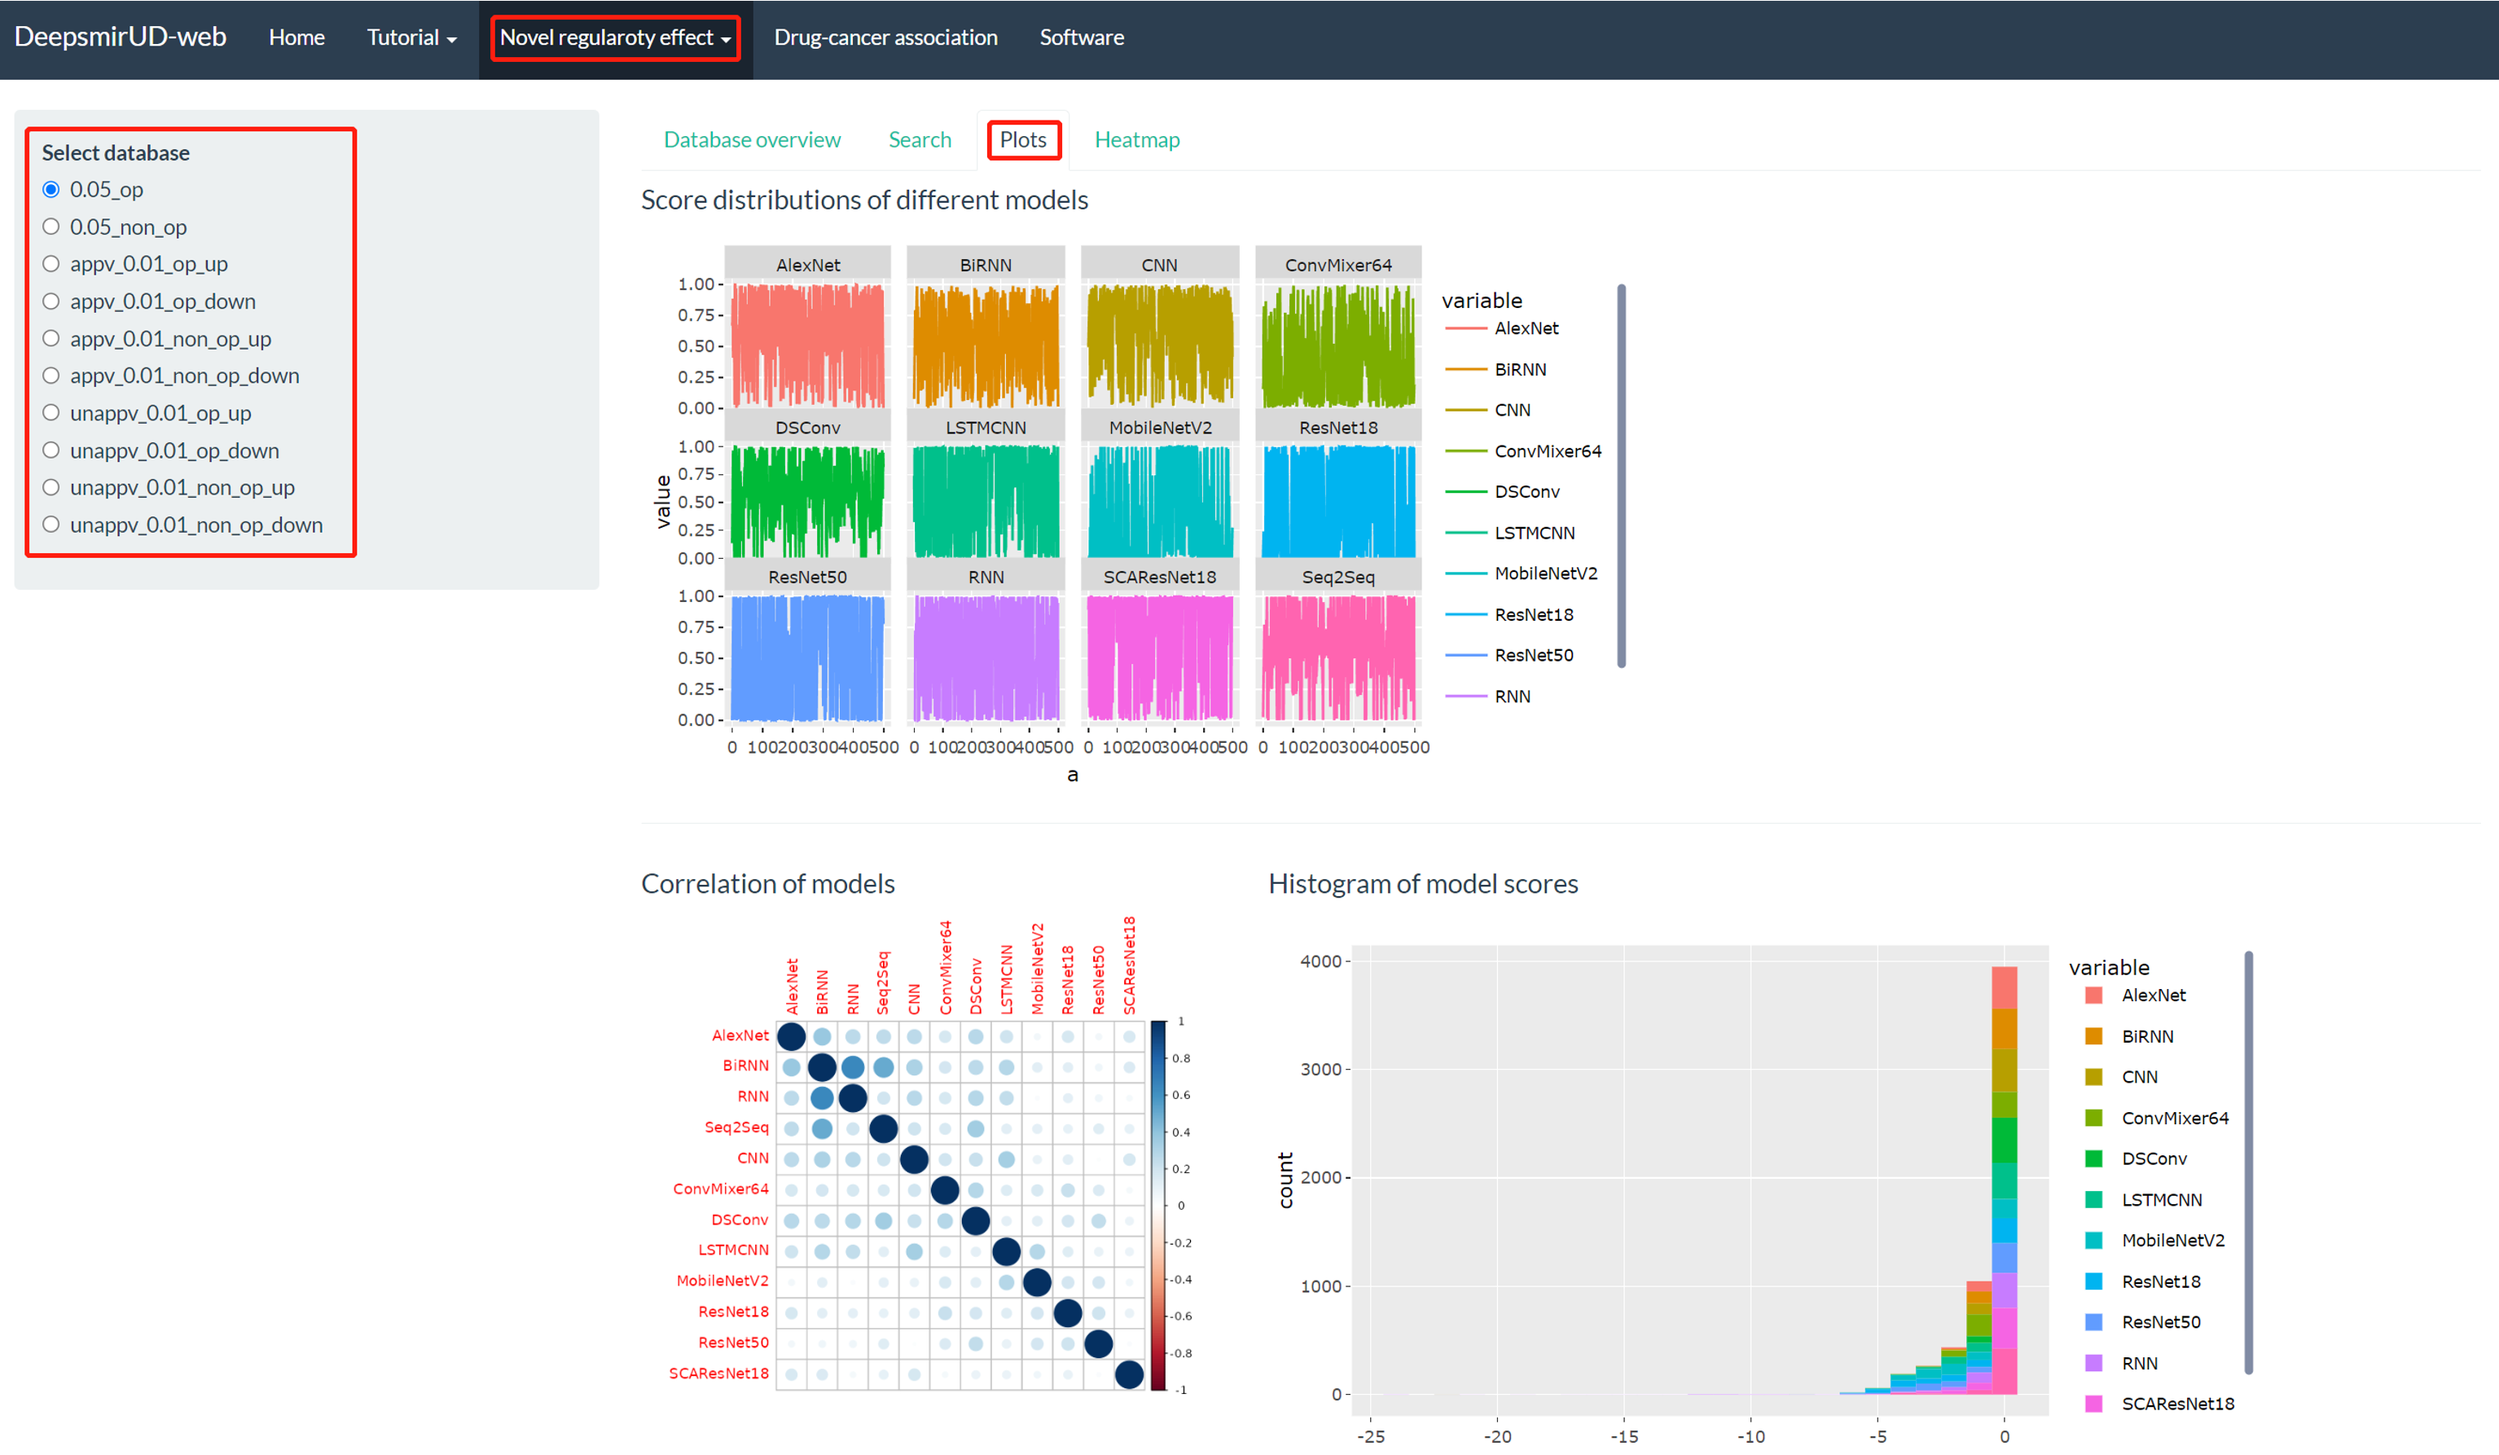
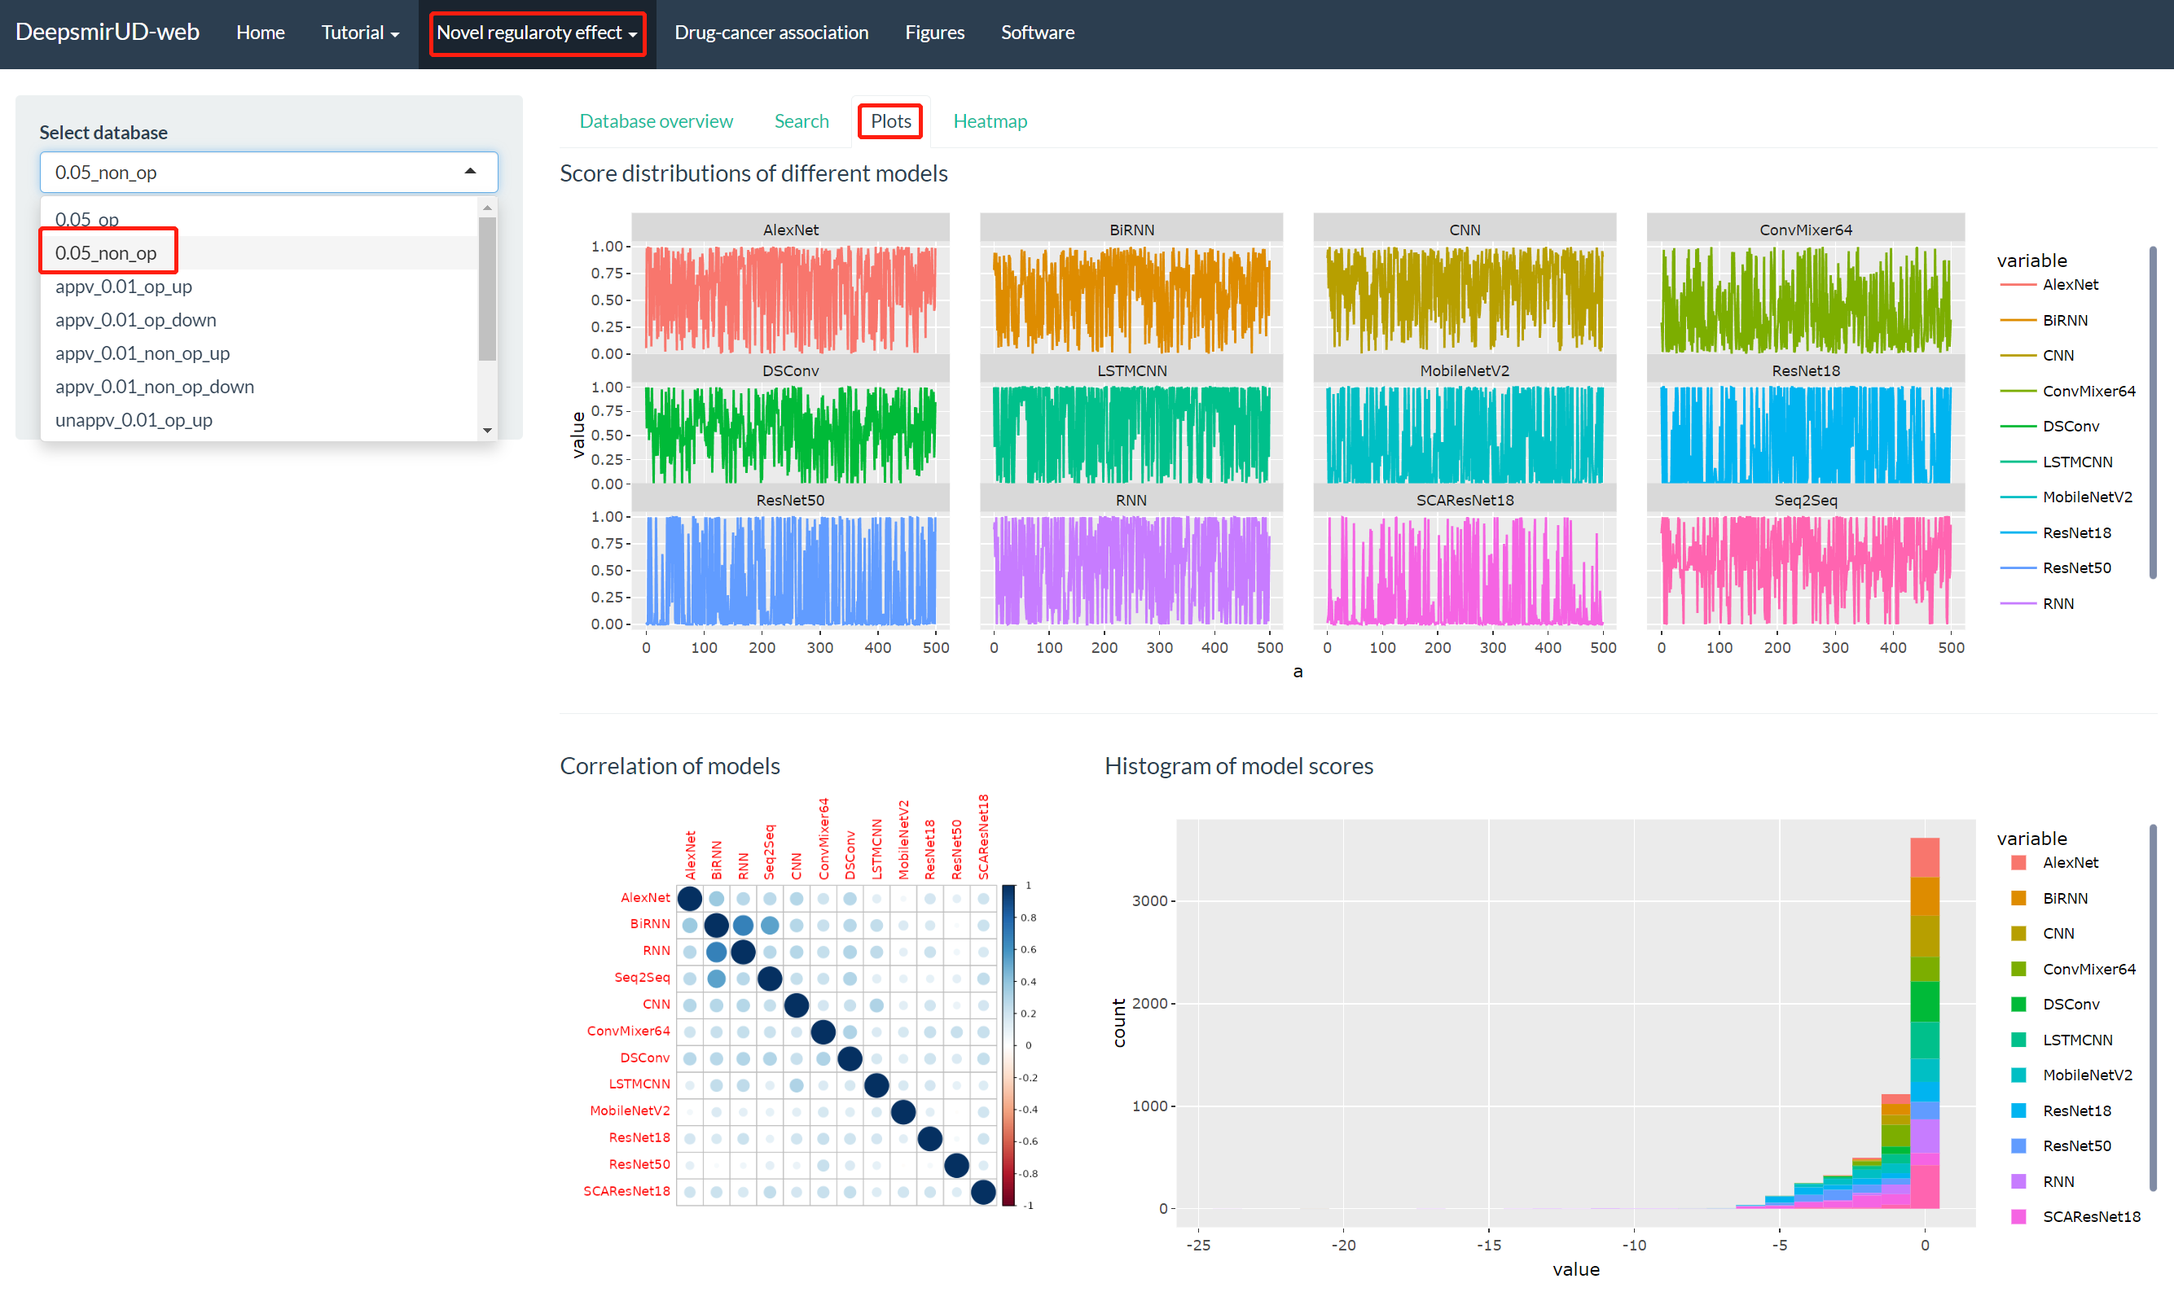
update tutorial

diff --git a/app/www/tutorial1.md b/app/www/tutorial1.md
@@ -17,8 +17,9 @@ unappv_0.01_op_down, unappv_0.01_non_op_up, and unappv_0.01_non_op_down.
 appv is for FDA-approved. unappv is for FDA-unapproved. op is for
 overlapped, representing a miRNA or a small molecule in these small
 molecule-miRNA pairs are overlapped with miRNAs or small molecules in
-the DeepsmirUD training dataset. After the ‘0.05_non_op’ database is
-selected, tables and plots are loaded as in **Figure 1**.
+the DeepsmirUD training dataset. The loading page of the Psmir databases
+is shown in **Figure 1**. After the ‘0.05_non_op’ database is selected,
+tables and plots are loaded as in **Figures 2-4**.
 
 <center>
 
@@ -29,7 +30,6 @@ alt="Figure 1. Databases of predicted regulatory effects of the Psmir pairs" />
 regulatory effects of the Psmir pairs</figcaption>
 </figure>
 
-</center>
 </center>
 
 </br>
@@ -45,7 +45,12 @@ data</figcaption>
 
 </center>
 
-</br>
+**Figure 2** shows the tables and plots after page loading. The tables
+provide small molecule-miRNA pair information, their predicted
+probabilities of regulatory effects and labels of down- or
+up-regulation. For plots, we provide the matrix of correlation between
+models, histogram, distribution, and heatmap (**Figure 3** and **Figure
+4**). The plots interactively change with data in the tables.
 
 <center>
 
@@ -77,32 +82,50 @@ alt="Figure 4. Heatmap plot" />
 #### (1). by small molecules
 
 In a certain database, all small molecules are listed at dropdown
-‘Filter by small molecule (compound)’ (**Figure 5**).
+‘Filter by small molecule (compound)’ (**Figure 5**). If you do not know
+which small molecules should be of your interest, you can follow what is
+shown in **Figure 5** for filtering small molecule-miRNA pairs. If you
+have an idea of which small molecule should be used, you can filter
+small molecule-miRNA pairs according to **Figure 6**.
 
 <center>
 
 <figure>
 <img src="nrFigure5.png" style="width:95.0%"
-alt="Figure 5. Select small molecule-miRNA pairs by applying a small molecule filter ‘vorinostat’" />
+alt="Figure 5. Select small molecule-miRNA pairs by applying a small molecule filter ‘maprotiline’ and ‘sanguinarine’" />
 <figcaption aria-hidden="true">Figure 5. Select small molecule-miRNA
-pairs by applying a small molecule filter ‘vorinostat’</figcaption>
+pairs by applying a small molecule filter ‘maprotiline’ and
+‘sanguinarine’</figcaption>
 </figure>
 
 </center>
 
 </br>
 
-If we drag the table scroll bar rightmost, it shows that miR-106b is
-upregulated by vorinostat and miR-1 is downregulated by vorinostat
-(**Figure 6**).
-
 <center>
 
 <figure>
 <img src="nrFigure6.png" style="width:95.0%"
-alt="Figure 6. Regulation types of vorinostat-miRNA pairs" />
-<figcaption aria-hidden="true">Figure 6. Regulation types of
-vorinostat-miRNA pairs</figcaption>
+alt="Figure 6. Select small molecule-miRNA pairs by typing in a small molecule ‘vorinostat’." />
+<figcaption aria-hidden="true">Figure 6. Select small molecule-miRNA
+pairs by typing in a small molecule ‘vorinostat’.</figcaption>
+</figure>
+
+</center>
+
+</br>
+
+If we drag the table scroll bar rightmost, it shows that miR-433 is
+upregulated by vorinostat and miR-448 is downregulated by vorinostat
+(**Figure 7**).
+
+<center>
+
+<figure>
+<img src="nrFigure7.png" style="width:95.0%"
+alt="Figure 7. Regulation types of vorinostat-miRNA pairs." />
+<figcaption aria-hidden="true">Figure 7. Regulation types of
+vorinostat-miRNA pairs.</figcaption>
 </figure>
 
 </center>
@@ -112,46 +135,66 @@ vorinostat-miRNA pairs</figcaption>
 #### (2). by miRNAs
 
 Similarly, we can select one of the miRNAs in the selected database to
-filter small molecule-miRNA pairs. There are 259 pairs left after a
-miR-7 filter is applied (**Figure 7** and **Figure 8**).
-
-<center>
-
-<figure>
-<img src="nrFigure7.png" style="width:95.0%"
-alt="Figure 7. Select small molecule-miRNA pairs by applying a miRNA filter." />
-<figcaption aria-hidden="true">Figure 7. Select small molecule-miRNA
-pairs by applying a miRNA filter.</figcaption>
-</figure>
-
-</center>
-
-</br>
+filter small molecule-miRNA pairs. There are 206 pairs left after a
+miR-380 filter is applied (**Figure 8**). Similar to filtering pairs by
+small molecules, if you have an idea of which miRNA should be used in
+your case, you can type in a miRNA, for example, miR-433 (**Figure 9**).
 
 <center>
 
 <figure>
 <img src="nrFigure8.png" style="width:95.0%"
-alt="Figure 8. Regulation types of small molecule-miR-7 pairs." />
-<figcaption aria-hidden="true">Figure 8. Regulation types of small
-molecule-miR-7 pairs.</figcaption>
+alt="Figure 8. Select small molecule-miRNA pairs by applying a small molecule filter ‘miR-380’." />
+<figcaption aria-hidden="true">Figure 8. Select small molecule-miRNA
+pairs by applying a small molecule filter ‘miR-380’.</figcaption>
 </figure>
 
 </center>
 
 </br>
 
-#### (3). by multiple conditions
-
-Deepsmir-Web also allows users to screen the regulation pairs with
-multiple conditions (**Figure 9**).
-
 <center>
 
 <figure>
 <img src="nrFigure9.png" style="width:95.0%"
-alt="Figure 9. Small molecule-miRNA pairs filtered by multiple conditions." />
-<figcaption aria-hidden="true">Figure 9. Small molecule-miRNA pairs
+alt="Figure 9. Select small molecule-miRNA pairs by typing in a miRNA ‘miR-433’." />
+<figcaption aria-hidden="true">Figure 9. Select small molecule-miRNA
+pairs by typing in a miRNA ‘miR-433’.</figcaption>
+</figure>
+
+</center>
+
+</br>
+
+<center>
+
+<figure>
+<img src="nrFigure10.png" style="width:95.0%"
+alt="Figure 10. Figure 10. Regulation types of small molecule-miR-7 pairs." />
+<figcaption aria-hidden="true">Figure 10. Figure 10. Regulation types of
+small molecule-miR-7 pairs.</figcaption>
+</figure>
+
+</center>
+
+</br>
+
+If we drag the table scroll bar rightmost, we can see the predicted
+down-regulation and up-regulation types of small molecule-miR-448 pairs
+(**Figure 10**).
+
+#### (3). by multiple conditions
+
+Deepsmir-Web also allows users to screen the regulation pairs with
+multiple conditions, for example, miR-433, FDA-approved, and P-value
+(**Figure 11**).
+
+<center>
+
+<figure>
+<img src="nrFigure11.png" style="width:95.0%"
+alt="Figure 11. Small molecule-miRNA pairs filtered by multiple conditions." />
+<figcaption aria-hidden="true">Figure 11. Small molecule-miRNA pairs
 filtered by multiple conditions.</figcaption>
 </figure>
 
@@ -162,14 +205,14 @@ filtered by multiple conditions.</figcaption>
 ## 2. Curated small molecule-miRNA pairs from Verse
 
 Similarly, for getting the regulatory effects of the Verse pairs users
-can apply as the same precedures as in Psmir.
+can apply as the same procedures as in Psmir (**Figure 12**).
 
 <center>
 
 <figure>
-<img src="nrFigure10.png" style="width:95.0%"
-alt="Figure 10. Regulatory effects of small molecule pairs curated from Verse." />
-<figcaption aria-hidden="true">Figure 10. Regulatory effects of small
+<img src="nrFigure12.png" style="width:95.0%"
+alt="Figure 12. Regulatory effects of small molecule pairs curated from Verse." />
+<figcaption aria-hidden="true">Figure 12. Regulatory effects of small
 molecule pairs curated from Verse.</figcaption>
 </figure>
 
